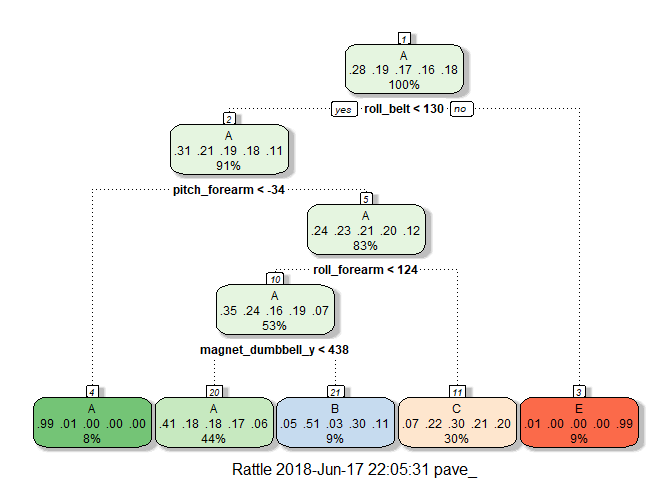
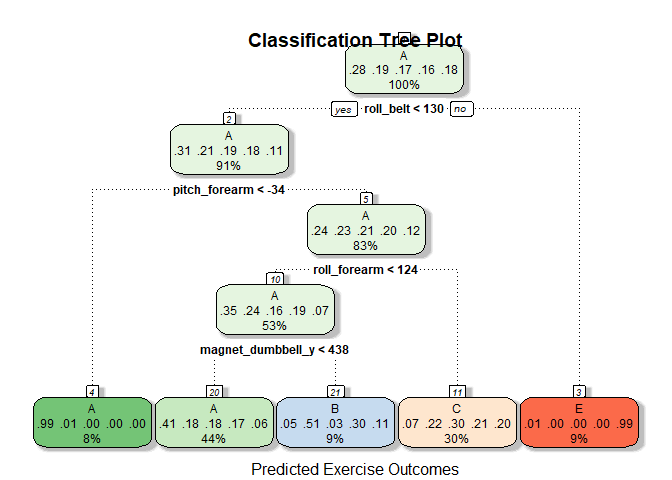
Updated plot names and suppressed library warning messages

Changed region(s): [[0.3438, 0.0625, 0.6875, 0.125], [0.3438, 0.9688, 0.7188, 1.0]]

diff --git a/ML_project.html b/ML_project.html
@@ -11,7 +11,7 @@
 
 <meta name="author" content="Mike Hulin" />
 
-<meta name="date" content="2018-06-16" />
+<meta name="date" content="2018-06-18" />
 
 <title>Machine Learning Project</title>
 
@@ -121,7 +121,7 @@ $(document).ready(function () {
 
 <h1 class="title toc-ignore">Machine Learning Project</h1>
 <h4 class="author"><em>Mike Hulin</em></h4>
-<h4 class="date"><em>June 16, 2018</em></h4>
+<h4 class="date"><em>June 18, 2018</em></h4>
 
 </div>
 
@@ -133,19 +133,11 @@ $(document).ready(function () {
 <div id="getting-the-data" class="section level3">
 <h3>Getting the Data</h3>
 <p>Files are downloaded from the Coursera site. There are two files; Training and Testing. Both files are cleaned to remove Variables that are missing data or do not contribute building the models. The Training set is divided into a small sample for validation of the models. The Training data has the true outcome for the variable - “classe” that we are trying to predict. That is omitted from the Testing dataset and will be predicted using the final selected model.</p>
-<pre class="r"><code>library(caret)</code></pre>
-<pre><code>## Warning: package 'caret' was built under R version 3.4.4</code></pre>
-<pre><code>## Loading required package: lattice</code></pre>
-<pre><code>## Loading required package: ggplot2</code></pre>
-<pre><code>## Warning: package 'ggplot2' was built under R version 3.4.4</code></pre>
-<pre class="r"><code>library(rattle)</code></pre>
-<pre><code>## Warning: package 'rattle' was built under R version 3.4.4</code></pre>
-<pre><code>## Rattle: A free graphical interface for data science with R.
-## Version 5.1.0 Copyright (c) 2006-2017 Togaware Pty Ltd.
-## Type 'rattle()' to shake, rattle, and roll your data.</code></pre>
-<pre class="r"><code>library(knitr)</code></pre>
-<pre><code>## Warning: package 'knitr' was built under R version 3.4.4</code></pre>
-<pre class="r"><code>setwd(&quot;D:/My_Files/Documents/Coursera/08_PracticalMachineLearning/Project/&quot;)
+<pre class="r"><code>library(caret)
+library(rattle)
+library(knitr)
+
+setwd(&quot;D:/My_Files/Documents/Coursera/08_PracticalMachineLearning/Project/&quot;)
 if(!file.exists(&quot;./data&quot;)){dir.create(&quot;./data&quot;)}
 # download training set
 fileUrl &lt;- &quot;https://d396qusza40orc.cloudfront.net/predmachlearn/pml-training.csv&quot;
@@ -203,8 +195,8 @@ print(modFit)</code></pre>
 ## 
 ## Accuracy was used to select the optimal model using the largest value.
 ## The final value used for the model was cp = 0.04119622.</code></pre>
-<pre class="r"><code>fancyRpartPlot(finMod)  ## Print the tree</code></pre>
[1 lines of base64/hex data omitted]
+<pre class="r"><code>fancyRpartPlot(finMod, main = &quot;Classification Tree Plot&quot;, sub = &quot;Predicted Exercise Outcomes&quot;)  ## Print the tree</code></pre>
[1 lines of base64/hex data omitted]
 <pre class="r"><code>## prediction based on the model using partial training data
 pred1 &lt;- predict(modFit, newdata=valid)
 confmat &lt;- confusionMatrix(valid$classe, pred1)

diff --git a/ML_project.md b/ML_project.md
@@ -1,7 +1,7 @@
 ---
 title: "Machine Learning Project"
 author: "Mike Hulin"
-date: "June 16, 2018"
+date: "June 18, 2018"
 output: 
   html_document:
     keep_md: true
@@ -24,47 +24,9 @@ Variables that are missing data or do not contribute building the models.  The T
 
 ```r
 library(caret)
-```
-
-```
-## Warning: package 'caret' was built under R version 3.4.4
-```
-
-```
-## Loading required package: lattice
-```
-
-```
-## Loading required package: ggplot2
-```
-
-```
-## Warning: package 'ggplot2' was built under R version 3.4.4
-```
-
-```r
 library(rattle)
-```
-
-```
-## Warning: package 'rattle' was built under R version 3.4.4
-```
-
-```
-## Rattle: A free graphical interface for data science with R.
-## Version 5.1.0 Copyright (c) 2006-2017 Togaware Pty Ltd.
-## Type 'rattle()' to shake, rattle, and roll your data.
-```
-
-```r
 library(knitr)
-```
 
-```
-## Warning: package 'knitr' was built under R version 3.4.4
-```
-
-```r
 setwd("D:/My_Files/Documents/Coursera/08_PracticalMachineLearning/Project/")
 if(!file.exists("./data")){dir.create("./data")}
 # download training set
@@ -136,7 +98,7 @@ print(modFit)
 ```
 
 ```r
-fancyRpartPlot(finMod)  ## Print the tree
+fancyRpartPlot(finMod, main = "Classification Tree Plot", sub = "Predicted Exercise Outcomes")  ## Print the tree
 ```
 
 ![](ML_project_files/figure-html/class_trees-1.png)<!-- -->
